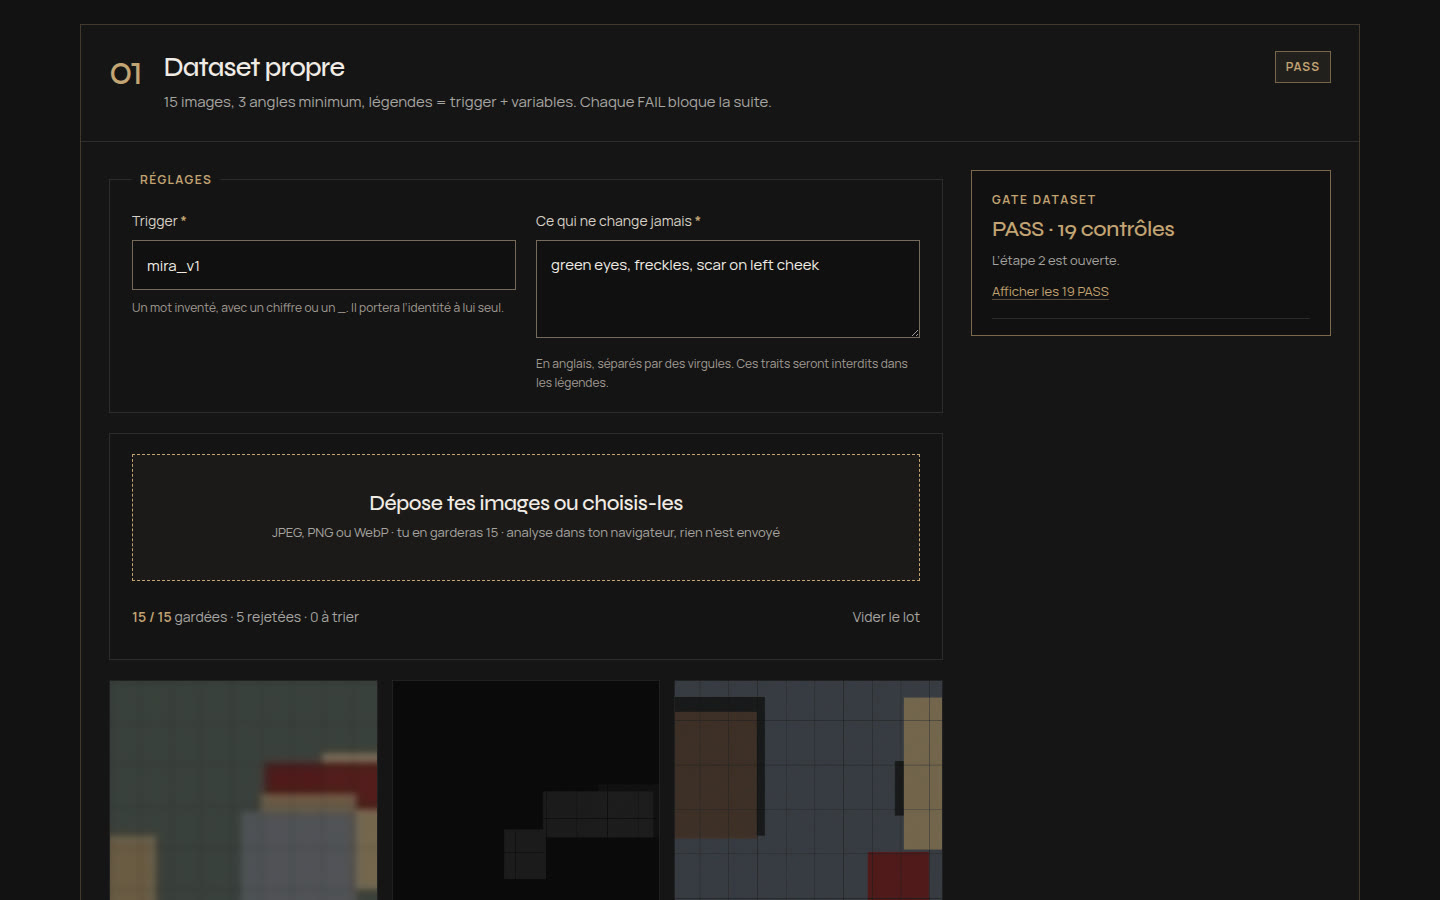
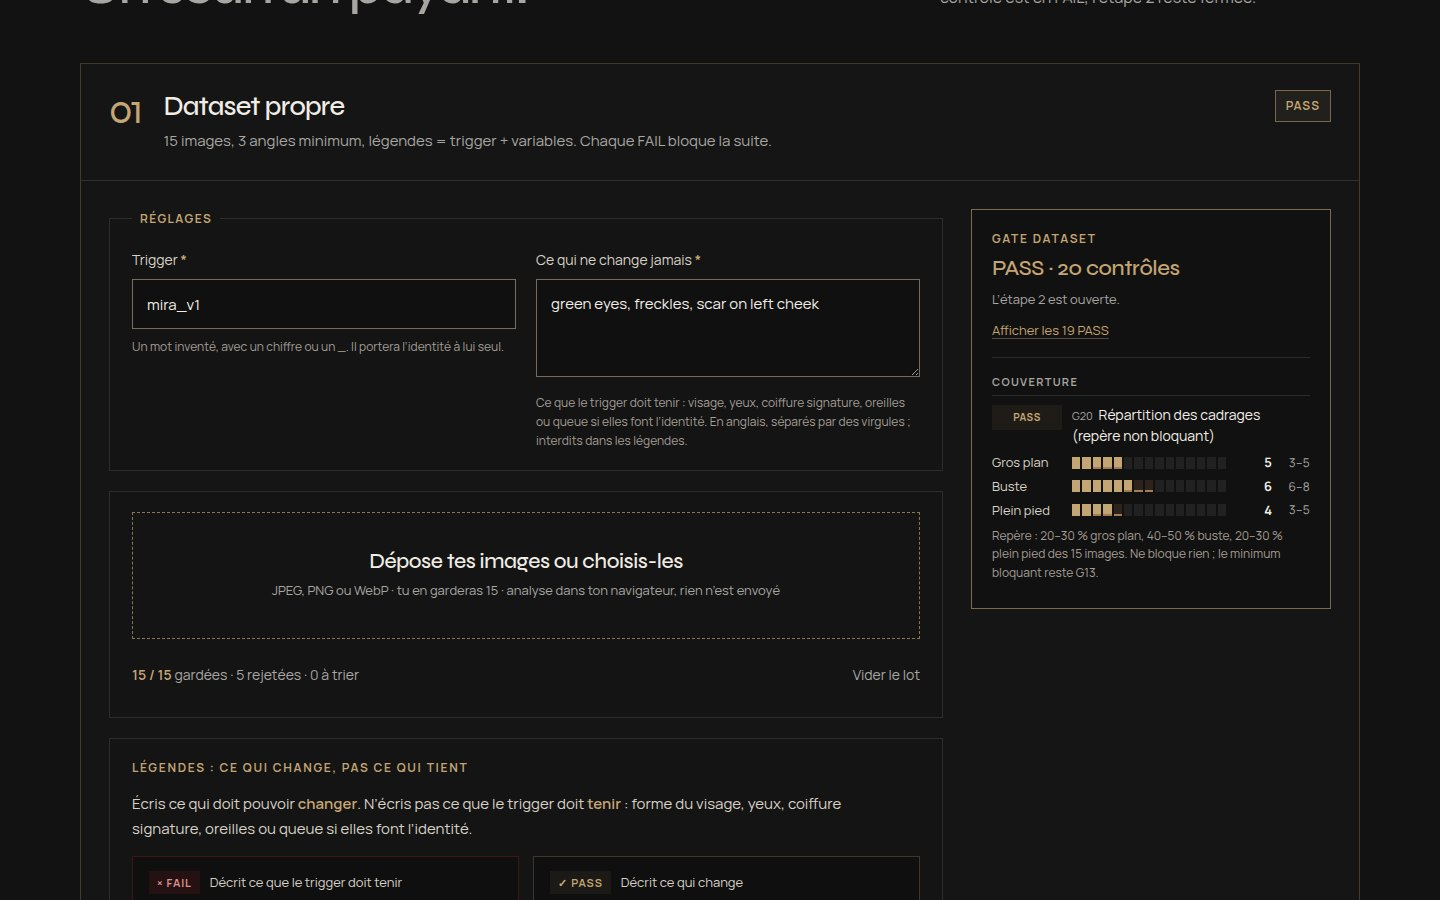
docs: record the doctrine UI checks and captures
Headless Chrome on the Pages export over HTTPS with 20 synthetic images:
live framing counts, À NOTER drift with PASS kept, G20 in the ZIP report,
FAIL/PASS captions, inline invariant hint, grid selection, copy and cost
note, no Comfy request before a click, no overflow from 320 to 1440 px.

New captures: framing meter, caption coach, test grid. Refreshed: gate
PASS (20 checks), gate FAIL (inline hint), step 3 (strength hint).

diff --git a/docs/QA.md b/docs/QA.md
@@ -71,23 +71,57 @@ Défaut trouvé et corrigé pendant #2 : les panneaux collants « Coût avant le
 5. Connexion impossible dans le cadre : « Ouvrir en plein onglet » ouvre la même app. Le ZIP, les légendes et le coût restent dans l’onglet du studio.
 6. Étape 3 : même chose pour le test de prompt.
 
+## Doctrine : cadrages, légendes, grille de test
+
+Vérification du 2026-09-24, branche `cursor/doctrine-ui-bf83`. Build GitHub Pages servi sous le sous-chemin, en HTTPS local (certificat autosigné). Chrome headless piloté par puppeteer-core, avec de vrais clics, sélections et saisies. Jeu de test : 20 images synthétiques générées par ffmpeg, soit 15 compositions distinctes (au moins 17 bits de dHash entre elles) et les 5 pièges habituels. Aucun run Comfy : 0 crédit.
+
+| Contrôle | Résultat |
+| --- | --- |
+| `npm test` (47/47), `npm run typecheck`, `npm run build`, build Pages | PASS |
+| Avant import : « 20 contrôles à faire », G20 en À FAIRE, pas encore de bloc légendes | PASS |
+| 8 images sur 15 étiquetées : compteur à 3 / 3 / 2, « 7 images gardées sans cadrage », aucun manque affiché | PASS |
+| 15 images en 5 / 6 / 4 : G20 en PASS, verdict « PASS · 20 contrôles » | PASS |
+| Deux cartes passées en gros plan (7 / 5 / 3) : G20 en À NOTER, excédent de 2 hachuré, manque de 1, deux messages ; verdict « PASS · 20 contrôles · 1 à noter », étape 2 ouverte | PASS |
+| « Voir les 7 gros plans » surligne les 7 cartes | PASS |
+| ZIP : `RAPPORT_GATE.txt` annonce 20 contrôles et contient la ligne `WARN G20` avec les comptes ; `unzip -t` sans erreur | PASS |
+| Bloc légendes après import : principe, légende FAIL (6 traits soulignés), légende PASS, trigger du client | PASS |
+| Carte vide : « Pose, tenue, décor, lumière, expression. Pas le visage. » et `[ce qui change]` dans l’aperçu. Carte remplie : plus d’aide | PASS |
+| « green eyes » dans une carte : message sur la carte, champ en `aria-invalid`, G15 en FAIL | PASS |
+| Étape 3, force : « Force haute… » à 1,00, « Bande d’usage » à 0,75, « Sous la bande d’usage » à 0,60 | PASS |
+| Grille : colonnes 0.60, 0.75 (bande d’usage) et 0.90, 3 prompts commençant par le trigger, case 1 · 0,75 par défaut. Valeurs reportées : prompt, 0.75, seed, 1 image, 800 étapes | PASS |
+| Case 2 · 0,60 : prompt et force suivent. « Copier » met le prompt, puis « 0.60 », dans le presse-papiers | PASS |
+| Seed passée à 777 : la grille suit | PASS |
+| Note de coût : pas de `SaveLoRA`, pas de checkpoint, une case = un run complet, avec son estimation | PASS |
+| Aucun iframe et aucune requête vers `*.comfy.org` sans clic sur « Charger l’app Comfy ici » | PASS |
+| Pas de débordement horizontal à 320, 390, 768, 1 024 et 1 440 px | PASS |
+| Aucune erreur JavaScript ni console | PASS |
+
+Défauts trouvés et corrigés pendant la QA :
+
+- En cours d’étiquetage, le compteur affichait « −3 » ou « −6 » sur des cadrages encore incomplets. Un manque n’apparaît plus tant qu’une image gardée n’a pas de cadrage ; un excédent apparaît tout de suite.
+- À 1 440 × 900, la note de coût de la grille sortait de l’écran. La lecture de la grille passe sur toute la largeur, sous la case choisie.
+
 ## Captures
 
 | Écran | Fichier |
 | --- | --- |
 | Hero desktop | [hero-desktop.jpg](screenshots/hero-desktop.jpg) |
 | Gate PASS | [gate-pass-desktop.jpg](screenshots/gate-pass-desktop.jpg) |
-| Gate FAIL (G15) | [gate-fail-desktop.jpg](screenshots/gate-fail-desktop.jpg) |
+| Gate FAIL (G15), message sur la carte | [gate-fail-desktop.jpg](screenshots/gate-fail-desktop.jpg) |
+| Repère de cadrage en À NOTER (G20) | [framing-meter-desktop.jpg](screenshots/framing-meter-desktop.jpg) |
+| Légendes FAIL et PASS | [caption-coach-desktop.jpg](screenshots/caption-coach-desktop.jpg) |
 | Étape 2, coût | [train-step-desktop.jpg](screenshots/train-step-desktop.jpg) |
 | Étape 2, app Comfy avant le clic | [comfy-consent-desktop.jpg](screenshots/comfy-consent-desktop.jpg) |
 | Étape 2, app Comfy chargée | [comfy-panel-desktop.jpg](screenshots/comfy-panel-desktop.jpg) |
 | Étape 3 | [image-step-desktop.jpg](screenshots/image-step-desktop.jpg) |
+| Étape 3, grille de test | [test-grid-desktop.jpg](screenshots/test-grid-desktop.jpg) |
 | Mobile | [hero-mobile.jpg](screenshots/hero-mobile.jpg), [guide-mobile.jpg](screenshots/guide-mobile.jpg) |
 
 ## Limites
 
 - Aucun entraînement réel n’a été exécuté. Le comportement de `TrainLoraNode` sur Flux.1 [dev] dans Comfy Cloud, les durées et la qualité restent à mesurer par la calibration ([COMFY-STACK.md](COMFY-STACK.md#coût--modèle-et-calibration)).
 - Les seuils du gate sont validés sur des images synthétiques, pas sur des datasets clients.
+- Le repère de cadrage et la bande d’usage 0,70–0,85 viennent de la pratique, pas d’une calibration sur ce stack. Le coût d’une case de grille suppose un réentraînement à chaque run : non mesuré.
 - Vérifié dans Chrome uniquement : ni Safari, ni Firefox, ni appareil physique.
 - L’écran App Mode connecté n’a pas été vu sans compte Comfy tiers. Le frontend Comfy ouvre un partage dans la vue de `extra.linearMode`, qui vaut `true` pour les deux snapshots.
 - Connexion Comfy dans le cadre : non vérifiée. Repli : « Ouvrir en plein onglet », même URL.
